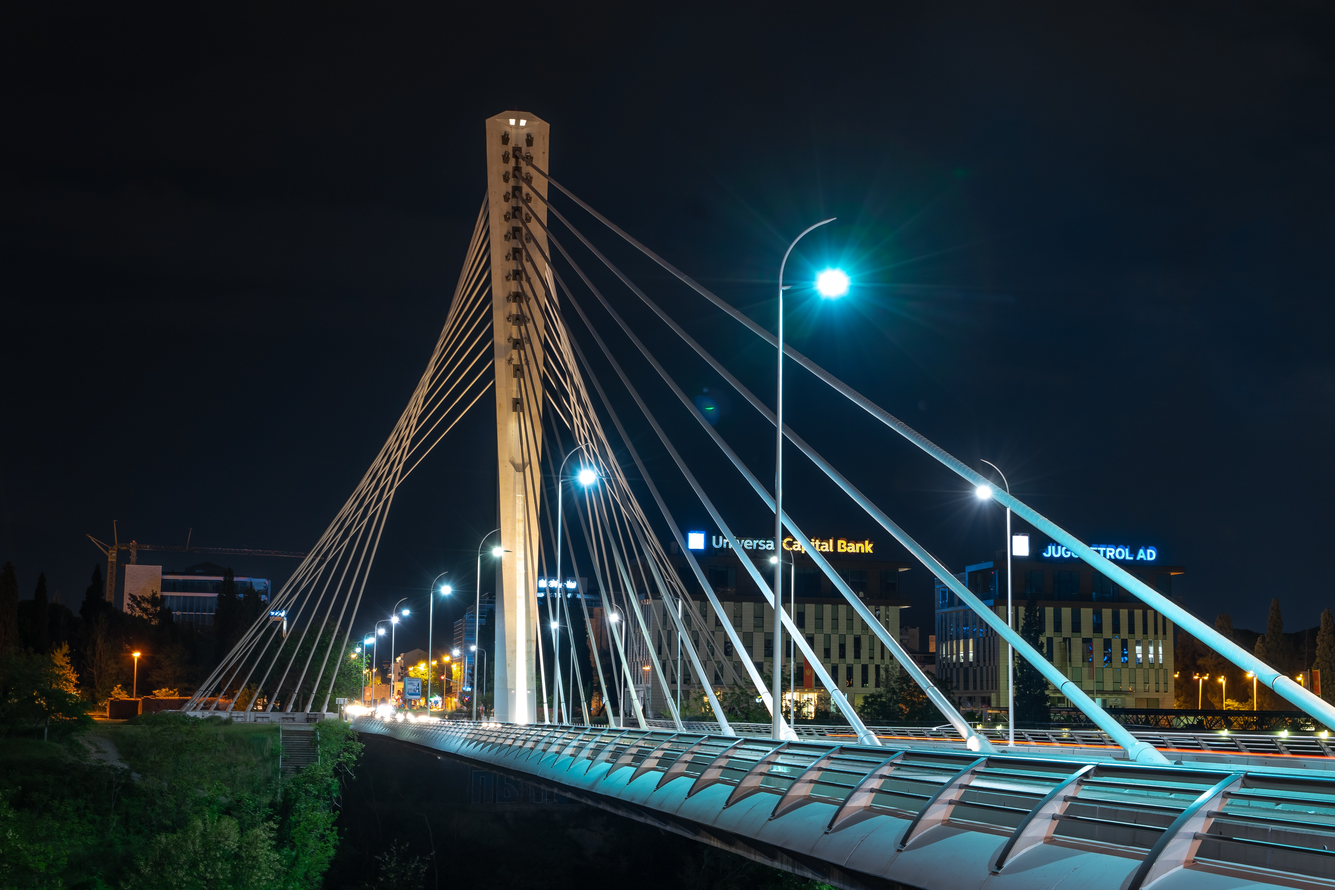
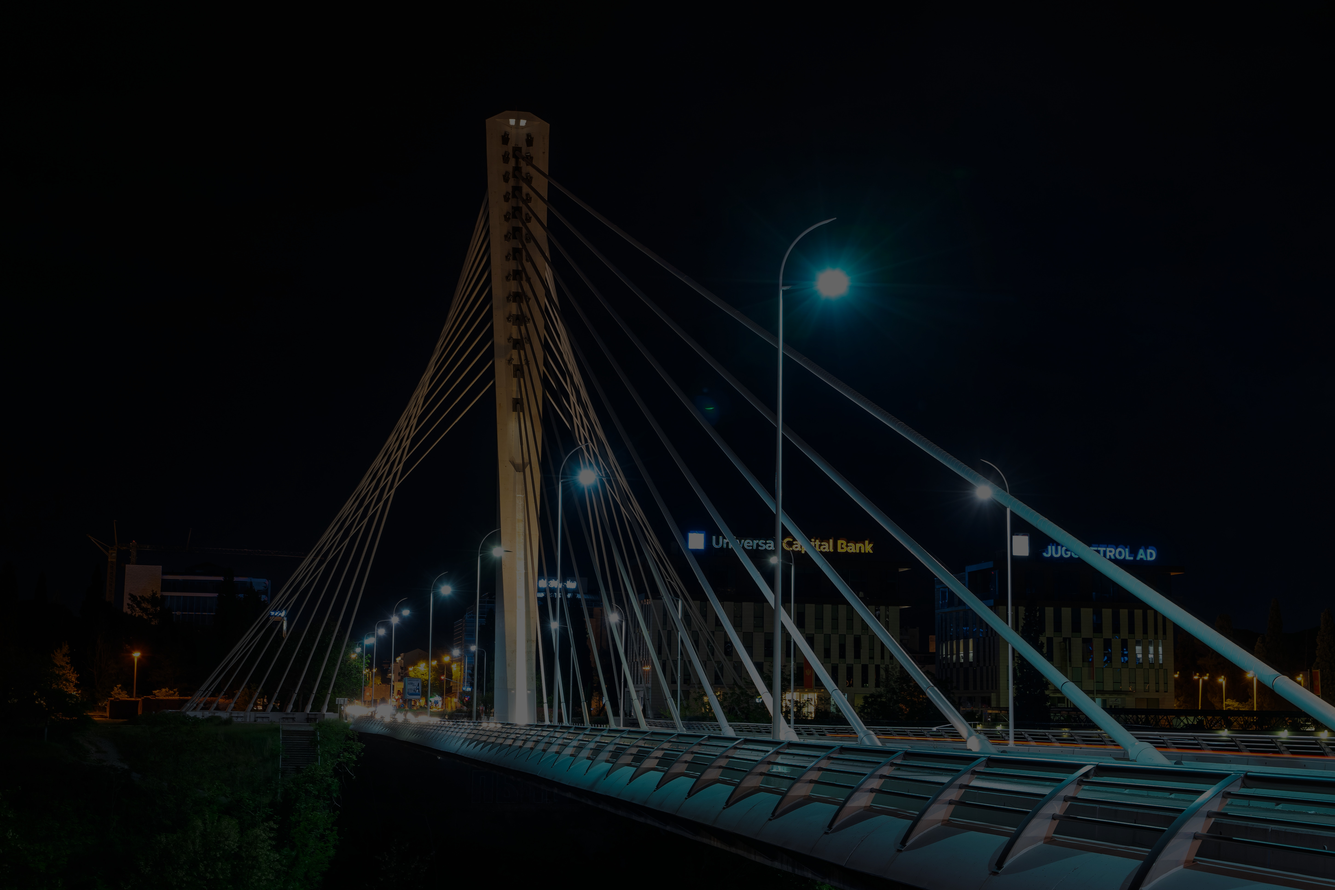
Avoid list implemented

diff --git a/lib/widgets/shared/navika-drawer.dart b/lib/widgets/shared/navika-drawer.dart
@@ -51,50 +51,50 @@ class NavikaDrawer extends StatelessWidget {
             padding: const EdgeInsets.all(8.0),
             child: Column(
               children: [
-                Column(
-                  children: [
-                    TextButton.icon(
-                      icon: Icon(Icons.list),
-                      label: Text(AppLocalizations.of(context)!.selectAll),
-                      onPressed: () {
-                        model.setSettings(
-                          personalPronounsIncluded: true,
-                          possessivePronounsIncluded: true,
-                          adjectivesIncluded: true,
-                          nounsIncluded: true,
-                        );
-                      },
-                    ),
-                    TextButton.icon(
-                      icon: Icon(Icons.close_outlined),
-                      label: Text(AppLocalizations.of(context)!.unselectAll),
-                      onPressed: () {
-                        model.setSettings(
-                          personalPronounsIncluded: false,
-                          possessivePronounsIncluded: false,
-                          adjectivesIncluded: false,
-                          //nounsIncluded: false,
-                        );
-                      },
-                    ),
-                  ],
-                ),
-                SwitchListTile(
-                  value: model.settings.personalPronounsIncluded,
-                  activeColor: ACCENT_COLOR,
-                  title: Text(AppLocalizations.of(context)!.personalPronouns),
-                  onChanged: (bool value) {
-                    model.setSettings(personalPronounsIncluded: value);
-                  },
-                ),
-                SwitchListTile(
-                  value: model.settings.adjectivesIncluded,
-                  activeColor: ACCENT_COLOR,
-                  title: Text(AppLocalizations.of(context)!.adjectives),
-                  onChanged: (bool value) {
-                    model.setSettings(adjectivesIncluded: value);
-                  },
-                ),
+                // Column(
+                //   children: [
+                //     TextButton.icon(
+                //       icon: Icon(Icons.list),
+                //       label: Text(AppLocalizations.of(context)!.selectAll),
+                //       onPressed: () {
+                //         model.setSettings(
+                //           personalPronounsIncluded: true,
+                //           possessivePronounsIncluded: true,
+                //           adjectivesIncluded: true,
+                //           nounsIncluded: true,
+                //         );
+                //       },
+                //     ),
+                //     TextButton.icon(
+                //       icon: Icon(Icons.close_outlined),
+                //       label: Text(AppLocalizations.of(context)!.unselectAll),
+                //       onPressed: () {
+                //         model.setSettings(
+                //           personalPronounsIncluded: false,
+                //           possessivePronounsIncluded: false,
+                //           adjectivesIncluded: false,
+                //           //nounsIncluded: false,
+                //         );
+                //       },
+                //     ),
+                //   ],
+                // ),
+                // SwitchListTile(
+                //   value: model.settings.personalPronounsIncluded,
+                //   activeColor: ACCENT_COLOR,
+                //   title: Text(AppLocalizations.of(context)!.personalPronouns),
+                //   onChanged: (bool value) {
+                //     model.setSettings(personalPronounsIncluded: value);
+                //   },
+                // ),
+                // SwitchListTile(
+                //   value: model.settings.adjectivesIncluded,
+                //   activeColor: ACCENT_COLOR,
+                //   title: Text(AppLocalizations.of(context)!.adjectives),
+                //   onChanged: (bool value) {
+                //     model.setSettings(adjectivesIncluded: value);
+                //   },
+                // ),
                 // SwitchListTile(
                 //   value: model.settings.nounsIncluded,
                 //   activeColor: ACCENT_COLOR,
@@ -103,14 +103,14 @@ class NavikaDrawer extends StatelessWidget {
                 //     model.setSettings(nounsIncluded: value);
                 //   },
                 // ),
-                SwitchListTile(
-                  value: model.settings.possessivePronounsIncluded,
-                  activeColor: ACCENT_COLOR,
-                  title: Text(AppLocalizations.of(context)!.possessivePronouns),
-                  onChanged: (bool value) {
-                    model.setSettings(possessivePronounsIncluded: value);
-                  },
-                ),
+                // SwitchListTile(
+                //   value: model.settings.possessivePronounsIncluded,
+                //   activeColor: ACCENT_COLOR,
+                //   title: Text(AppLocalizations.of(context)!.possessivePronouns),
+                //   onChanged: (bool value) {
+                //     model.setSettings(possessivePronounsIncluded: value);
+                //   },
+                // ),
                 Padding(
                   padding: const EdgeInsets.all(14.0),
                   child: Column(

diff --git a/lib/lang_data/possessive-pronouns.dart b/lib/lang_data/possessive-pronouns.dart
@@ -1,9 +1,11 @@
 import 'package:navika/models/adjective.dart';
+import 'package:navika/models/enums.dart';
 import 'package:navika/models/models.dart';
 
 final List<Adjective> possessivePronounWordBank = [
   Adjective(
     dictionary: 'moj',
+    toAvoid: [Tags.Season, Tags.Country],
     nominativ: new Declension(
       masculine: new DeclensionByGender(singular: ['moj'], plural: ['moji']),
       feminine: new DeclensionByGender(singular: ['moja'], plural: ['moje']),
@@ -63,6 +65,7 @@ final List<Adjective> possessivePronounWordBank = [
   ),
   Adjective(
     dictionary: 'tvoj',
+    toAvoid: [Tags.Season, Tags.Country],
     nominativ: new Declension(
       masculine: new DeclensionByGender(singular: ['tvoj'], plural: ['tvoji']),
       feminine: new DeclensionByGender(singular: ['tvoja'], plural: ['tvoje']),
@@ -120,6 +123,7 @@ final List<Adjective> possessivePronounWordBank = [
   ),
   Adjective(
     dictionary: 'svoj',
+    toAvoid: [Tags.Season, Tags.Country],
     nominativ: new Declension(
       masculine: new DeclensionByGender(singular: ['svoj'], plural: ['svoji']),
       feminine: new DeclensionByGender(singular: ['svoja'], plural: ['svoje']),
@@ -179,6 +183,7 @@ final List<Adjective> possessivePronounWordBank = [
   ),
   Adjective(
     dictionary: 'njegov',
+    toAvoid: [Tags.Season, Tags.Country],
     nominativ: new Declension(
       masculine:
           new DeclensionByGender(singular: ['njegov'], plural: ['njegovi']),
@@ -248,6 +253,7 @@ final List<Adjective> possessivePronounWordBank = [
   ),
   Adjective(
     dictionary: 'njezin',
+    toAvoid: [Tags.Season, Tags.Country],
     nominativ: new Declension(
       masculine:
           new DeclensionByGender(singular: ['njezin'], plural: ['njezini']),
@@ -318,6 +324,7 @@ final List<Adjective> possessivePronounWordBank = [
   ),
   Adjective(
     dictionary: 'njihov',
+    toAvoid: [Tags.Season, Tags.Country],
     nominativ: new Declension(
       masculine:
           new DeclensionByGender(singular: ['njihov'], plural: ['njihovi']),
@@ -387,6 +394,7 @@ final List<Adjective> possessivePronounWordBank = [
   ),
   Adjective(
     dictionary: 'naš',
+    toAvoid: [Tags.Season, Tags.Country],
     nominativ: new Declension(
       masculine: new DeclensionByGender(singular: ['naš'], plural: ['naši']),
       feminine: new DeclensionByGender(singular: ['naša'], plural: ['naše']),
@@ -441,6 +449,7 @@ final List<Adjective> possessivePronounWordBank = [
   ),
   Adjective(
     dictionary: 'vaš',
+    toAvoid: [Tags.Season, Tags.Country],
     nominativ: new Declension(
       masculine: new DeclensionByGender(singular: ['vaš'], plural: ['vaši']),
       feminine: new DeclensionByGender(singular: ['vaša'], plural: ['vaše']),
@@ -495,6 +504,7 @@ final List<Adjective> possessivePronounWordBank = [
   ),
   Adjective(
     dictionary: 'ovaj',
+    toAvoid: [Tags.Season, Tags.Country],
     nominativ: new Declension(
       masculine: new DeclensionByGender(singular: ['ovaj'], plural: ['ovi']),
       feminine: new DeclensionByGender(singular: ['ova'], plural: ['ove']),
@@ -547,6 +557,7 @@ final List<Adjective> possessivePronounWordBank = [
   ),
   Adjective(
     dictionary: 'taj',
+    toAvoid: [Tags.Season, Tags.Country],
     nominativ: new Declension(
       masculine: new DeclensionByGender(singular: ['taj'], plural: ['ti']),
       feminine: new DeclensionByGender(singular: ['ta'], plural: ['te']),
@@ -599,6 +610,7 @@ final List<Adjective> possessivePronounWordBank = [
   ),
   Adjective(
     dictionary: 'onaj',
+    toAvoid: [Tags.Season, Tags.Country],
     nominativ: new Declension(
       masculine: new DeclensionByGender(singular: ['onaj'], plural: ['oni']),
       feminine: new DeclensionByGender(singular: ['ona'], plural: ['one']),
@@ -651,6 +663,7 @@ final List<Adjective> possessivePronounWordBank = [
   ),
   Adjective(
     dictionary: 'svaki',
+    toAvoid: [Tags.Country],
     nominativ: new Declension(
       masculine: new DeclensionByGender(singular: ['svaki'], plural: ['svaki']),
       feminine: new DeclensionByGender(singular: ['svaka'], plural: ['svake']),

diff --git a/lib/state/case-exercises.dart b/lib/state/case-exercises.dart
@@ -12,6 +12,15 @@ class CaseExercises with ChangeNotifier {
   Map<Cases, List<QuestionStateItem>> exerciseItems = {};
 
   CaseExercises({Cases? caseType}) {
+    if (caseType == null) return;
+
+    List<QuestionStateItem> items = getItems(caseType);
+    exerciseItems[caseType] = items;
+
+    notifyListeners();
+  }
+
+  List<QuestionStateItem> getItems(Cases caseType) {
     List<QuestionStateItem> items = [];
 
     switch (caseType) {
@@ -48,18 +57,15 @@ class CaseExercises with ChangeNotifier {
         break;
     }
 
-    if (caseType != null) {
-      exerciseItems[caseType] = items;
-      exerciseItems[caseType]!.shuffle();
-    }
-
-    notifyListeners();
+    items.shuffle();
+    return items;
   }
 
   void add(Cases caseType, QuestionStateItem item) {
     exerciseItems[caseType]!.add(item);
     notifyListeners();
   }
+
 
   void modifyStateItem(
       Cases caseType, QuestionStateItem toModify, QuestionStateItem newValue) {

diff --git a/lib/models/adjective.dart b/lib/models/adjective.dart
@@ -12,6 +12,7 @@ class Adjective {
   final Declension dativ;
   final Declension genitiv;
   final Declension vokativ;
+  late List<Tags> toAvoid;
 
   Adjective({
     required this.dictionary,
@@ -23,6 +24,7 @@ class Adjective {
     required this.dativ,
     required this.genitiv,
     required this.vokativ,
+    this.toAvoid = const [],
   });
 
   List<String> getUniqueDeclensions({bool shuffle = false}) {
@@ -180,5 +182,15 @@ class Adjective {
     final filtered = getUniqueDeclensions(shuffle: true);
     filtered.removeWhere((element) => toAvoid.contains(element));
     return filtered.last;
+  }
+
+  bool isCompatible(List<Tags> tags) {
+    for (var avoid in this.toAvoid) {
+      if (tags.contains(avoid)) {
+        return false;
+      }
+    }
+
+    return true;
   }
 }

diff --git a/lib/utilities/navika-helpers.dart b/lib/utilities/navika-helpers.dart
@@ -121,8 +121,8 @@ class N {
     bank.possessivePronouns.forEach((possPronoun) {
       bank.adjectives.forEach((adj) {
         bank.nouns.forEach((noun) {
-          final includePossPronoun = N.coinFlip();
-          final includeAdjective = N.coinFlip();
+          final includePossPronoun = possPronoun.isCompatible(noun.tags) && N.coinFlip();
+          final includeAdjective = adj.isCompatible(noun.tags) && N.coinFlip();
           final isPlural = noun.nominativ.plural.first != '' && N.coinFlip();
           final staticParts =
               getStaticSentenceParts(noun, isPlural, possPronoun, adj);

diff --git a/lib/widgets/content-generators/akuzativ-generators.dart b/lib/widgets/content-generators/akuzativ-generators.dart
@@ -13,7 +13,9 @@ class AkuzativGenerators {
     String end = '';
     final pron = pronoun != null ? pronoun.nominativ.masculine.singular : '';
 
-    if (noun.tags.contains(Tags.Location)) {
+    if (noun.tags.contains(Tags.Season)) {
+      start = N.coinFlip() ? 'Volim' : 'Ne volim';
+    } else if (noun.tags.contains(Tags.Location)) {
       start = 'Idemo u';
     } else if (noun.tags.contains(Tags.Food)) {
       start = N.coinFlip() ? 'Ću jesti' : 'Želi';

diff --git a/lib/widgets/grammar-guide/child-widgets/declension-table.dart b/lib/widgets/grammar-guide/child-widgets/declension-table.dart
@@ -54,6 +54,7 @@ class DeclensionTable extends StatelessWidget {
           child: Container(
             decoration: BoxDecoration(
               border: Border.all(color: Colors.grey),
+              borderRadius: BorderRadius.circular(5),
             ),
             child: Row(
               mainAxisAlignment: MainAxisAlignment.spaceEvenly,

diff --git a/lib/widgets/all-cases.dart b/lib/widgets/all-cases.dart
@@ -17,7 +17,7 @@ class AllCases extends StatelessWidget {
       banner: NavikaBanner(
         imagePath: CaseImagePaths[Cases.All]!,
         caseName: title,
-        description: '', // TODO: Add description
+        description: AppLocalizations.of(context)!.allCasesDesc,
         icons: [
           Icons.group,
         ],
